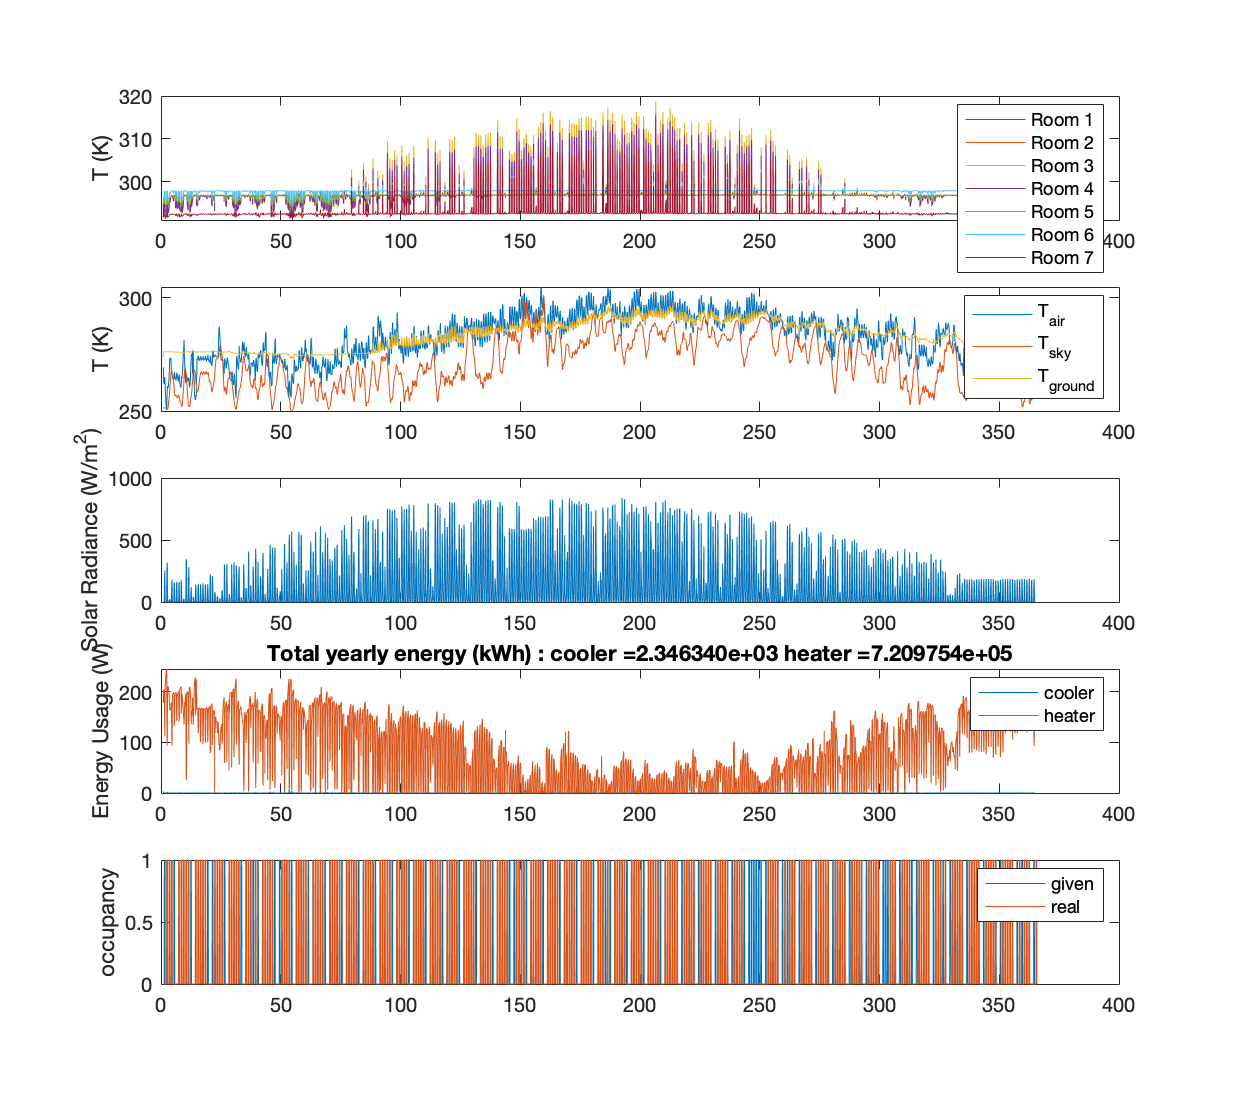
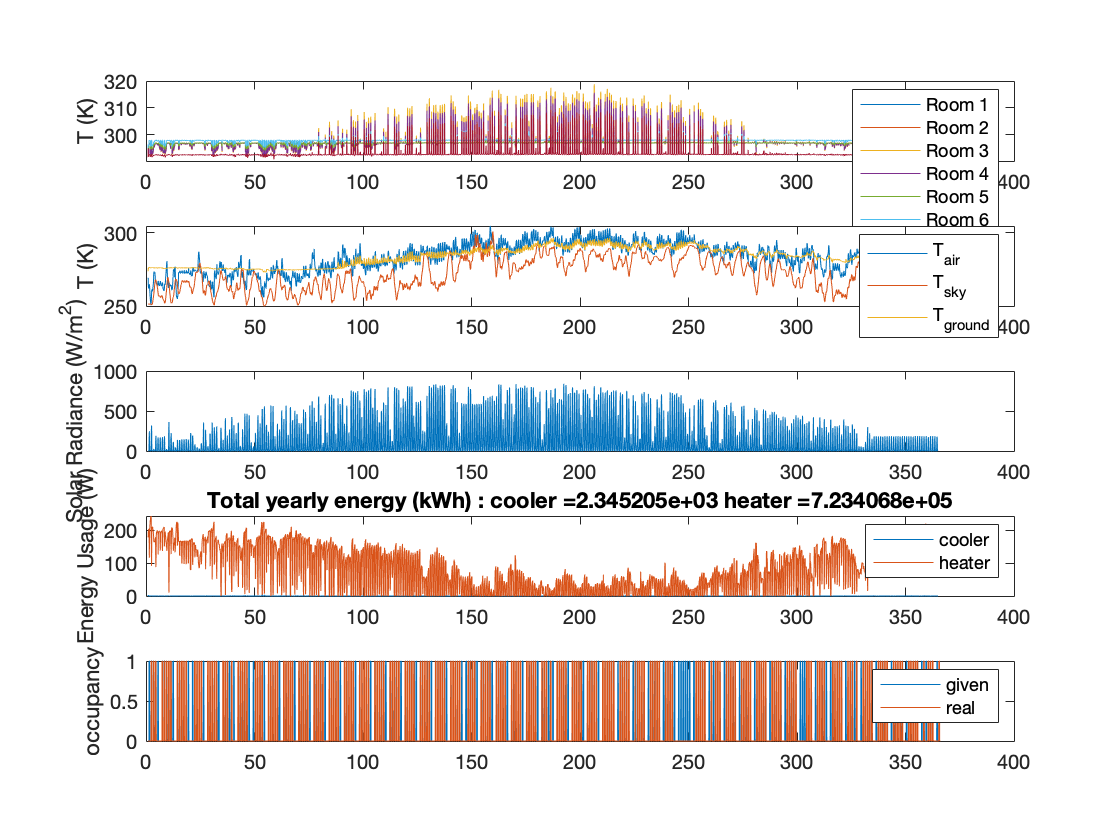
re-ran layouts 1, 2, and 3 using updated insulation thickness

diff --git a/addLayout.m b/addLayout.m
@@ -34,7 +34,7 @@ function building = addLayout(layoutNum)
     %flows from both the heater and cooler
     if layoutNum == 1
         % Building Materials
-        RSI_interior_wall = .2*RSI_concrete+.1*RSI_fiberglass;
+        RSI_interior_wall = .2*RSI_concrete+.3*RSI_fiberglass;
         RSI_exterior_wall = .2*RSI_concrete+.3*RSI_fiberglass+.3*RSI_concrete;
         RSI_roofing = 0.1*RSI_concrete+0.3*RSI_fiberglass+RSI_asphalt_roof;
         
@@ -103,9 +103,9 @@ function building = addLayout(layoutNum)
     %layout 2 - maximize cost.
     if layoutNum == 2
         % Building Materials
-        RSI_interior_wall = .3*RSI_drywall+.4*RSI_foam;
-        RSI_exterior_wall = .5*RSI_brick+.4*RSI_foam+.3*RSI_drywall;
-        RSI_roofing = 0.3*RSI_drywall+0.4*RSI_foam+RSI_wood_roof;
+        RSI_interior_wall = .3*RSI_drywall+.3*RSI_foam;
+        RSI_exterior_wall = .5*RSI_brick+.3*RSI_foam+.3*RSI_drywall;
+        RSI_roofing = 0.3*RSI_drywall+0.3*RSI_foam+RSI_wood_roof;
         
         L = 24; %length of building
         W = 15; %width of building
@@ -175,9 +175,9 @@ function building = addLayout(layoutNum)
     %layout 3 - highest R-value
     if layoutNum == 3
         % Building Materials
-        RSI_interior_wall = .1*RSI_plywood+.4*RSI_foam;
-        RSI_exterior_wall = .2*RSI_concrete+.4*RSI_foam+.1*RSI_plywood;
-        RSI_roofing = 0.2*RSI_plywood+0.4*RSI_foam+RSI_wood_roof;
+        RSI_interior_wall = .1*RSI_plywood+.3*RSI_foam;
+        RSI_exterior_wall = .2*RSI_concrete+.3*RSI_foam+.1*RSI_plywood;
+        RSI_roofing = 0.2*RSI_plywood+0.3*RSI_foam+RSI_wood_roof;
         
         L = 25; %length of building
         W = 18; %width of building
